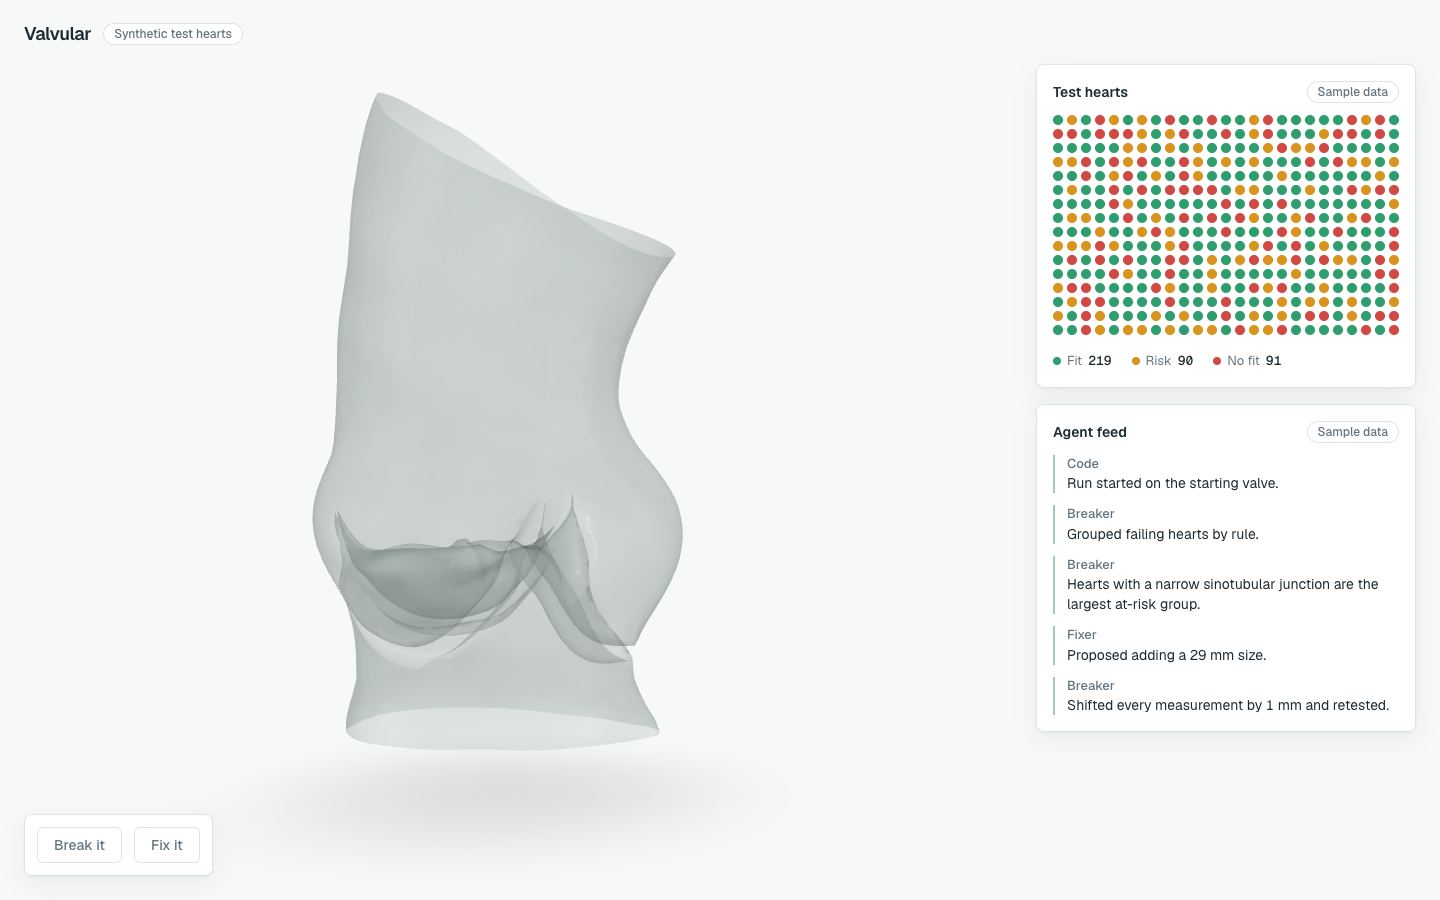
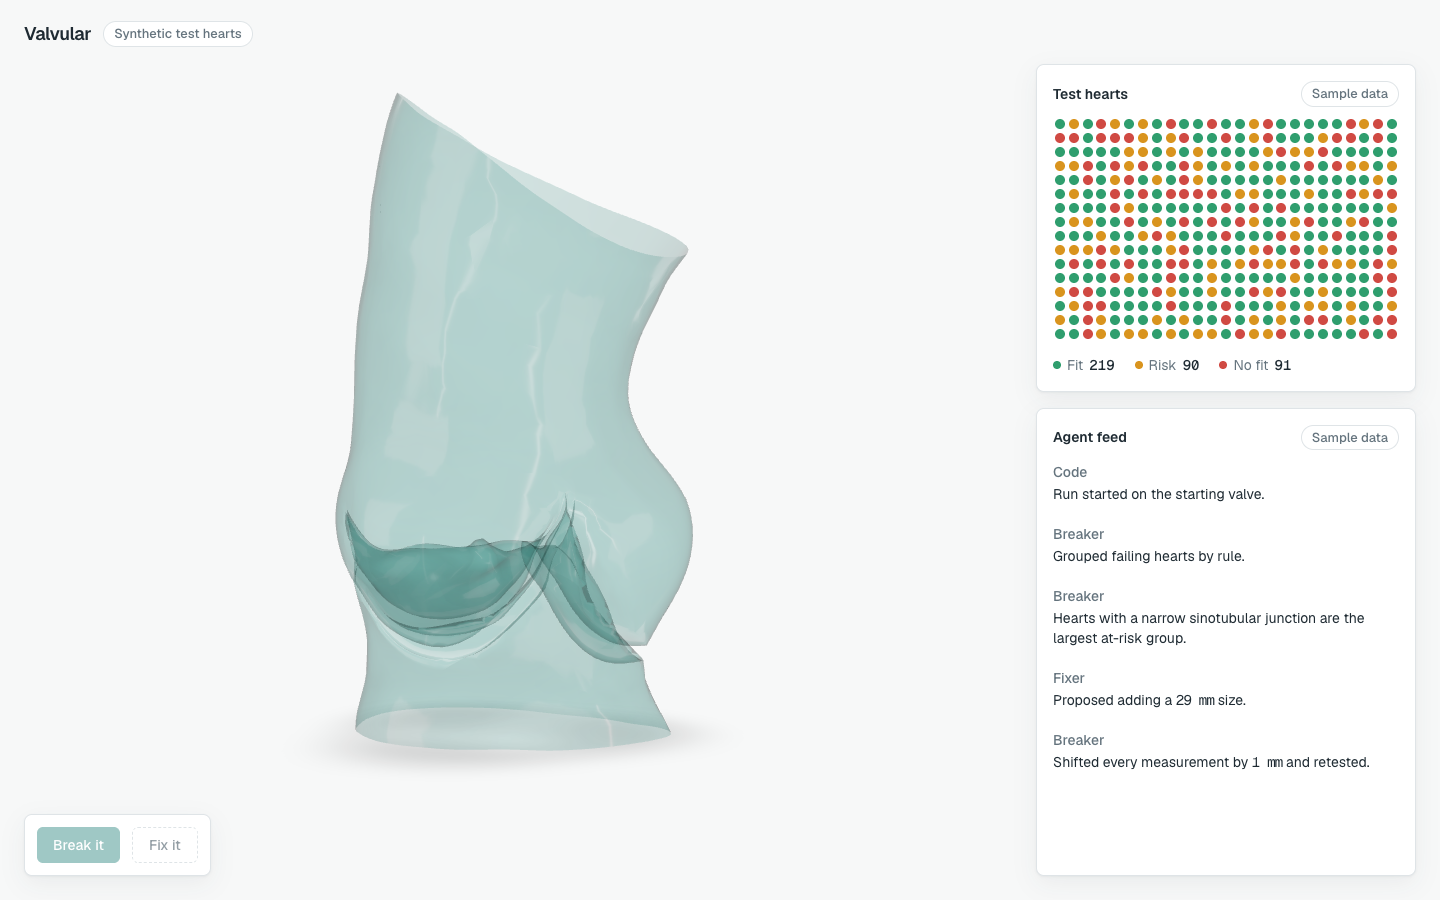
Round 3 polish: teal root shell, centred composition, grounded shadow, feed fills column, control hierarchy, mono measurements, wider projector panels

diff --git a/src/components/root-view/index.tsx b/src/components/root-view/index.tsx
@@ -1,27 +1,45 @@
 "use client";
 
-import { useMemo } from "react";
+import { useEffect, useMemo } from "react";
+import { useThree } from "@react-three/fiber";
 import { useGLTF } from "@react-three/drei";
 import { BackSide, Box3, FrontSide, Mesh, MeshPhysicalMaterial, Vector3 } from "three";
 import { ValveModel } from "@/components/valve-model";
+import { useStageProgress } from "@/state/stage";
 
 const ROOT_URL = "/fixtures/root-sample.glb";
 export const ROOT_SIZE = 2.7;
 export const ROOT_LIFT = 0.15;
+const PANEL_MARGIN = 24;
 
 function createWallMaterial(side: typeof BackSide | typeof FrontSide) {
   return new MeshPhysicalMaterial({
-    color: "#cfe3e0",
+    color: "#5fb8ad",
     transparent: true,
-    opacity: 0.3,
-    roughness: 0.35,
-    clearcoat: 0.4,
+    opacity: 0.2,
+    roughness: 0.12,
+    clearcoat: 1,
+    clearcoatRoughness: 0.1,
+    envMapIntensity: 1.6,
     side,
     depthWrite: false,
   });
 }
 
+function useCentreInFreeArea() {
+  const { camera, size, invalidate } = useThree();
+  const progress = useStageProgress();
+  useEffect(() => {
+    const column = document.querySelector("[data-testid=wall-panel]")?.parentElement;
+    const shift = column ? (column.offsetWidth + PANEL_MARGIN) / 2 : 0;
+    camera.setViewOffset(size.width, size.height, shift * progress, 0, size.width, size.height);
+    invalidate();
+    return () => camera.clearViewOffset();
+  }, [camera, size, progress, invalidate]);
+}
+
 export function RootView() {
+  useCentreInFreeArea();
   const { scene } = useGLTF(ROOT_URL);
   const root = useMemo(() => {
     const clone = scene.clone(true);
@@ -46,7 +64,7 @@ export function RootView() {
   }, [scene]);
 
   return (
-    <group position={[-0.9, ROOT_LIFT, 0]} rotation={[0, 0, Math.PI / 2]}>
+    <group position={[0, ROOT_LIFT, 0]} rotation={[0, 0, Math.PI / 2]}>
       <primitive object={root} />
       <ValveModel />
     </group>

diff --git a/src/components/feed/index.tsx b/src/components/feed/index.tsx
@@ -1,28 +1,40 @@
 import sample from "@fixtures/sample-feed.json";
 import { DataLabel } from "@/components/data-label";
 
+const MEASUREMENT = /(\d+(?:\.\d+)?\s?mm)/g;
+
+function renderText(text: string) {
+  return text
+    .split(MEASUREMENT)
+    .map((part, index) =>
+      index % 2 === 1 ? (
+        <span key={index} className="mono tracking-tighter">
+          {part}
+        </span>
+      ) : (
+        part
+      ),
+    );
+}
+
 export function Feed() {
   return (
     <section
       data-testid="feed-panel"
-      className="panel flex min-h-0 flex-col p-4"
+      className="panel flex min-h-0 flex-1 flex-col p-4"
       aria-label="Agent feed"
     >
       <div className="mb-3 flex items-center justify-between">
         <h2 className="text-sm font-semibold">Agent feed</h2>
         <DataLabel>{sample.label}</DataLabel>
       </div>
-      <ol className="min-h-0 space-y-3 overflow-y-auto">
+      <ol className="min-h-0 space-y-5 overflow-y-auto">
         {sample.events.map((event) => (
-          <li
-            key={event.seq}
-            data-testid="feed-event"
-            className="border-l-2 border-accent/40 pl-3 text-sm"
-          >
-            <span className="block text-[13px] font-medium capitalize text-muted">
+          <li key={event.seq} data-testid="feed-event" className="text-sm">
+            <span className="mb-0.5 block text-sm font-medium capitalize text-muted">
               {event.actor}
             </span>
-            {event.text}
+            {renderText(event.text)}
           </li>
         ))}
       </ol>

diff --git a/src/components/controls/index.tsx b/src/components/controls/index.tsx
@@ -1,7 +1,6 @@
 import { Button } from "@/components/ui/button";
 
-const DISABLED =
-  "disabled:border disabled:border-panel-border disabled:bg-panel disabled:text-muted disabled:opacity-100";
+const DISABLED = "disabled:pointer-events-auto disabled:cursor-not-allowed disabled:opacity-100";
 
 export function Controls() {
   return (
@@ -10,10 +9,17 @@ export function Controls() {
       className="panel flex items-center gap-3 p-3"
       aria-label="Controls"
     >
-      <Button disabled className={DISABLED}>
+      <Button
+        disabled
+        className={`${DISABLED} disabled:bg-accent/40 disabled:text-white`}
+      >
         Break it
       </Button>
-      <Button variant="outline" disabled className={DISABLED}>
+      <Button
+        variant="outline"
+        disabled
+        className={`${DISABLED} disabled:border-dashed disabled:bg-transparent disabled:text-muted/70`}
+      >
         Fix it
       </Button>
     </section>

diff --git a/src/components/wall/index.tsx b/src/components/wall/index.tsx
@@ -22,7 +22,7 @@ export function Wall() {
         <h2 className="text-sm font-semibold">Test hearts</h2>
         <DataLabel>{sample.label}</DataLabel>
       </div>
-      <div className="grid grid-cols-[repeat(25,10px)] gap-[4px]">
+      <div className="grid grid-cols-[repeat(25,1fr)] justify-items-center gap-y-[4px]">
         {results.map(({ heartId, status }) => (
           <span
             key={heartId}
@@ -32,7 +32,7 @@ export function Wall() {
           />
         ))}
       </div>
-      <dl className="mt-4 flex gap-5 text-[13px] text-muted">
+      <dl className="mt-4 flex gap-5 text-sm text-muted">
         {STATUSES.map(({ status, label, className }) => (
           <div key={status} className="flex items-center gap-1.5">
             <span className={`size-2 rounded-full ${className}`} />

diff --git a/src/components/heart-scene/index.tsx b/src/components/heart-scene/index.tsx
@@ -17,14 +17,16 @@ export function HeartScene() {
         <Environment resolution={64}>
           <Lightformer intensity={2} position={[0, 5, -5]} scale={[10, 4, 1]} />
           <Lightformer intensity={1} position={[-5, 1, 3]} scale={[4, 6, 1]} />
+          <Lightformer intensity={6} position={[4, 2, 4]} rotation={[0, -0.6, 0]} scale={[0.6, 7, 1]} />
         </Environment>
         <RootView />
         <ContactShadows
           frames={1}
-          position={[0, ROOT_LIFT - ROOT_SIZE / 2 - 0.25, 0]}
-          opacity={0.14}
-          blur={3.5}
-          scale={10}
+          position={[0, ROOT_LIFT - ROOT_SIZE / 2, 0]}
+          opacity={0.2}
+          blur={1.8}
+          far={1.5}
+          scale={7}
         />
       </Canvas>
     </div>

diff --git a/src/app/page.tsx b/src/app/page.tsx
@@ -25,7 +25,7 @@ export default async function Home({
             <DataLabel className="stage-panel">Synthetic test hearts</DataLabel>
           </span>
         </header>
-        <div className="stage-panel pointer-events-none absolute bottom-6 right-6 top-16 flex w-[380px] flex-col gap-4 [&>*]:pointer-events-auto">
+        <div className="stage-panel pointer-events-none absolute bottom-6 right-6 top-16 flex w-(--panel-col) flex-col gap-4 [&>*]:pointer-events-auto">
           <Wall />
           <Feed />
         </div>

diff --git a/src/components/data-label/index.tsx b/src/components/data-label/index.tsx
@@ -10,7 +10,7 @@ export function DataLabel({
   return (
     <span
       className={cn(
-        "inline-flex items-center rounded-full border border-panel-border bg-panel px-2.5 py-0.5 text-xs font-medium text-muted",
+        "inline-flex items-center rounded-full border border-panel-border bg-panel px-2.5 py-0.5 text-[13px] font-medium text-muted",
         className,
       )}
     >

diff --git a/scripts/fixtures/build-root-sample.ts b/scripts/fixtures/build-root-sample.ts
@@ -53,7 +53,7 @@ async function main() {
   await MeshoptSimplifier.ready;
   await doc.transform(
     weld(),
-    simplify({ simplifier: MeshoptSimplifier, ratio: 0.7, error: 0.01 }),
+    simplify({ simplifier: MeshoptSimplifier, ratio: 0.7, error: 0.01, lockBorder: true }),
     quantize(),
     meshopt({ encoder: MeshoptEncoder, level: "high" }),
   );

diff --git a/src/styles/tokens.css b/src/styles/tokens.css
@@ -12,6 +12,13 @@
   --status-risk: #d9941e;
   --status-no-fit: #d04a43;
   --radius: 0.5rem;
+  --panel-col: 380px;
+}
+
+@media (min-width: 1800px) {
+  :root {
+    --panel-col: 460px;
+  }
 }
 
 @theme inline {
